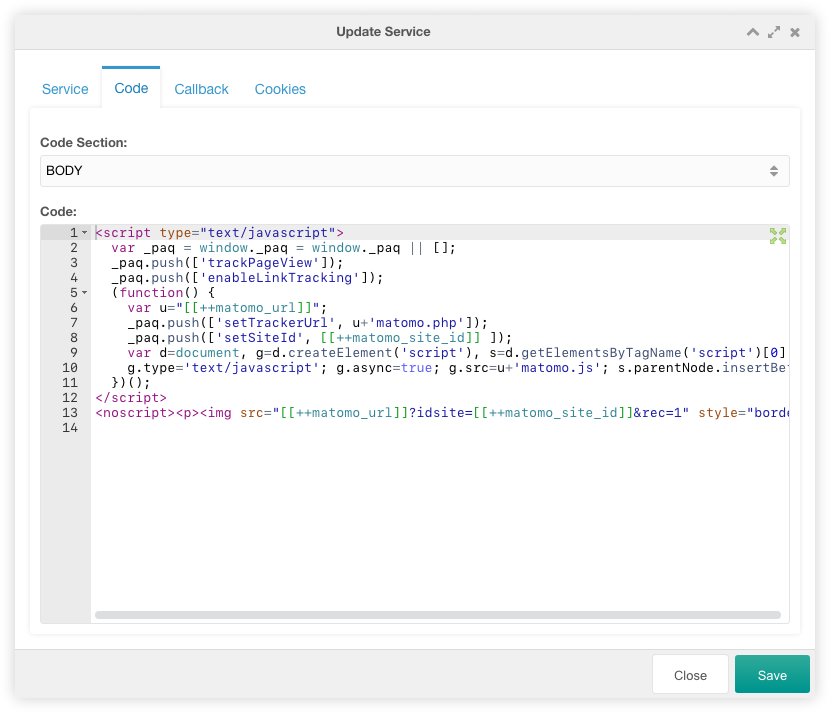
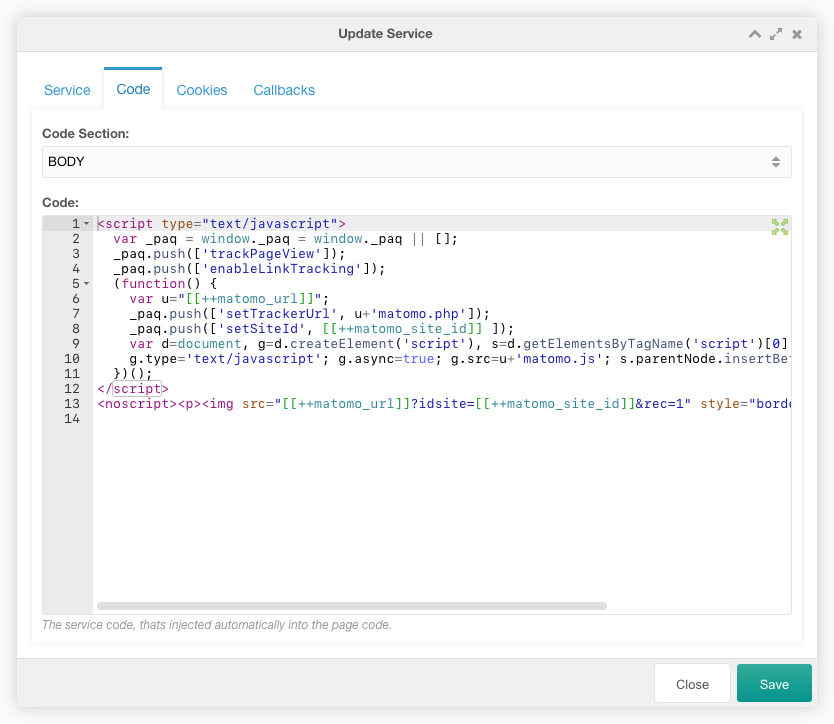
Update docs to 1.3.0 (#136)
* Update docs to 1.3.0

* Update docs to 1.3.0

* Update docs to 1.3.0

diff --git a/en/02_ConsentFriend/v1/03_Custom_Manager_Page/01_Services.md b/en/02_ConsentFriend/v1/03_Custom_Manager_Page/01_Services.md
@@ -7,8 +7,8 @@ with just a few lines of code.
 
 [![](img/services.png)](img/services.png)
 
-You can create a new service with a click on the New Service button on the
-top left above the services grid.
+You can create a new service with a click on the New Service button on the top
+left above the services grid.
 
 You can export the services to a YAML file with a click on the Export Services
 button above the services grid.
@@ -98,21 +98,6 @@ In the code tab you can select the code section and enter the service code.
 service code will be automatically disabled for a direct execution before the
 injection. MODX context/system settings tags could be used in the service code.
 
-### Callback Tab
-
-In the callback tab you can enter the service callback code.
-
-[![](img/service-callback.png)](img/service-callback.png)
-
-**Callback:** The service callback code thats executed when the service is
-loaded or the initial consent is changed. It must contain a javascript function
-with the two properties `consent` and `service`. `consent` contains the consent
-state (true = consented) and `service` contains the service configuation. 
-
-The demo data of the googleRecaptcha service contains a code example that
-disables all inputs with `data-name="googleRecaptcha"`. Please look into the
-[reCAPTCHA usage example](../02_Functionality/Google_reCAPTCHA.md).
-
 ### Cookies Tab
 
 In the cookies tab you can edit the cookies of that service in a grid. Adding
@@ -138,3 +123,43 @@ properly, the cookie can't be deleted by ConsentFriend, as there is no way to
 access the path or domain of a cookie in JS. Notice that it is not possible to
 delete cookies that were set on a third-party domain, or cookies that have the
 HTTPOnly attribute. [See the documentation](https://developer.mozilla.org/en-US/docs/Web/API/Document/cookie#new-cookie_domain)
+
+### Callbacks Tab
+
+In the callbacks tab you can enter several service callback codes in the
+textareas of the four callback tabs.
+
+[![](img/service-callbacks.png)](img/service-callbacks.png)
+
+**On Toggle:** This callback code is executed when the service consent is
+changed. It must contain a javascript function with the two properties
+`consent` and `service` or stay empty. `consent` contains the consent state
+(true = consented) and `service` contains the service configuation.
+
+The demo data of the googleRecaptcha service contains a code example that
+disables all inputs with `data-name="googleRecaptcha"`. Please have a look at
+the [reCAPTCHA usage example](../02_Functionality/Google_reCAPTCHA.md).
+
+The `On Toggle` callback was named `Callback` before ConsentFriend 1.3.0. The next
+callbacks are available with ConsentFriend 1.3.0.
+
+**On Init:** This callback code is executed when the service is initialized
+(once per page-load). It must contain a javascript function with the property
+`opts` or stay empty. `opts` contains the configuration of the ConsentFriend
+script in `opts.config`, the service configuation in `opts.service` and an
+optional configuration in `opts.vars`. Here you can create additional variables
+to be used later in the `On Accept` and `On Decline` callbacks.
+
+**On Accept:** This callback code is executed when the service is accepted. 
+It must contain a javascript function with the property `opts` (see
+`On Init` callback) or stay empty.
+
+**On Decline:** This callback code is executed when the service is declined.
+It must contain a javascript function with the property `opts` (see
+`On Init` callback) or stay empty.
+
+The demo data of the googleTagManager service contains code examples for the
+three callbacks above that use the new Google Tag Manager `Consent Mode`. It
+will load the Google Analytics tag via Google Tag Manager, but only if you have
+consented to use Google Analytics via ConsentFriend. Please have a look at the
+[Google Tag Manager usage example](../02_Functionality/Google_Tag_Manager.md).

diff --git a/en/02_ConsentFriend/v1/02_Functionality/Google_Tag_Manager.md b/en/02_ConsentFriend/v1/02_Functionality/Google_Tag_Manager.md
@@ -1,0 +1,22 @@
+You can integrate ConsentFriend with the Google Tag Manager (GTM) quite easy and
+control consents for Google Analytics with ConsentFriend via the GTM. The demo
+callback scripts in the googleTagManager service already contain the necessary
+code for this.
+
+First, change the googleAnalytics service and delete the code block there. This
+also applies to other existing and newly defined services that you want to
+control via the GTM. You only need to list the cookies that these services set.
+
+Now create a Google Analytics tag in the GTM web UI. As a trigger, create a
+[custom event trigger](https://support.google.com/tagmanager/answer/7679219)
+named `consentfriend-googleAnalytics-accepted`. This will ensure that GTM only
+loads the Google Analytics service if the user has given consent for it via
+ConsentFriend. And that's it!
+
+ConsentFriend now manages GTM and ensures that only services that the user has
+given consent for via ConsentFriend are loaded.
+
+> Important! To add another service via GTM, first enable or create a service in
+ConsentFriend and simply define a custom event trigger of the form
+`consentfriend-[service-name]-accepted`, where `[service-name]` is the name of the
+service in the ConsentFriend configuration.

diff --git a/en/02_ConsentFriend/v1/05_Themes.md b/en/02_ConsentFriend/v1/05_Themes.md
@@ -1,6 +1,11 @@
 _ConsentFriend_ has five different default themes, that can be enabled in the
 [system settings](04_System_Settings.md).
 
+The scss variables have changed with version 1.3.0. Most of the changes are
+backwards compatible, but if you created an own theme, please check the display
+of the consent popup after the update and after compiling the scss file for your
+site.
+
 > If you want to create your own theme, you could import the file
 `assets/components/consentfriend/scss/klaro.scss` in your scss workflow.
 To disable the default styling of the modal afterwards, please set the system

diff --git a/en/02_ConsentFriend/v1/02_Functionality/01_Introduction.md b/en/02_ConsentFriend/v1/02_Functionality/01_Introduction.md
@@ -67,6 +67,7 @@ The original href attribute has to be removed.
 Example code for external services:
 
 - [Google reCAPTCHA](Google_reCAPTCHA.md)
+- [Google Tag Manager](Google_Tag_Manager.md)
 - [Youtube videos](Youtube_Videos.md)
 
 #### Link to open the consent management window
@@ -76,5 +77,3 @@ If you want to add a link to the consent management window on a page, you could 
 ```
 <a onclick="klaro.show();return false;">[[%consentfriend.services.change_setting? &namespace=`consentfriend`]]</a>
 ```
-
-

diff --git a/en/02_ConsentFriend/v1/06_Lexicon.md b/en/02_ConsentFriend/v1/06_Lexicon.md
@@ -11,5 +11,4 @@ MODX cache** for changes to appear in the front-end.
 The changes made this way will also persist across updates of the ConsentFriend
 package.
 
-The ConsentFriend lexicon could be translated on
-[Crowdin](https://crowdin.com/project/consentfriend).
+The ConsentFriend lexicon could be translated on Weblate in the future.
